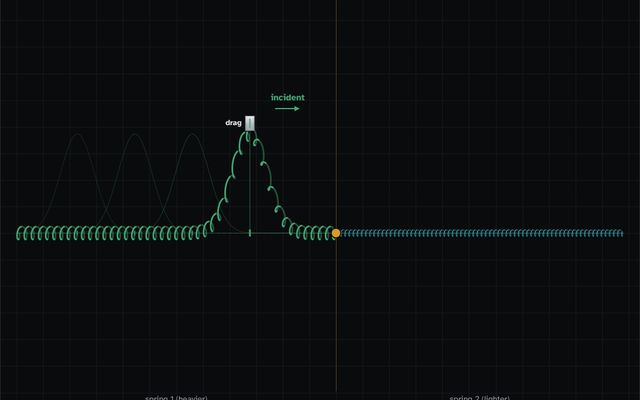
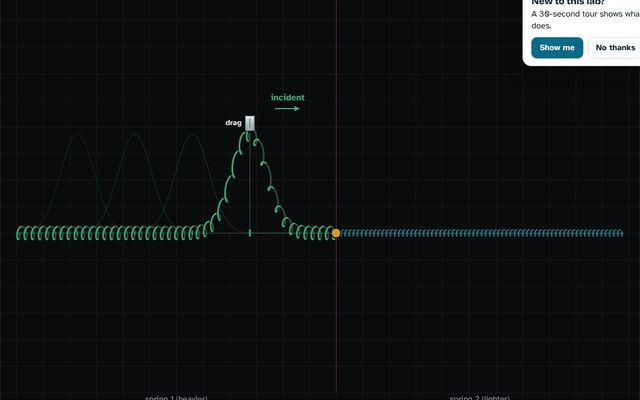
Pulse at a Boundary: Exercise screen and solving it in the lab
- Exercise screen: amplitude A, speed v1, and spring 2 as a mass-per-metre
  ratio (0.1-10) or a rigid wall, with an Example.
- The guided solution sets spring 2, asks for a prediction (upright, inverted,
  none), works out v2 = v1/r, R = (1-r)/(1+r) with the height and whether it is
  inverted, T = 2/(1+r), plays the pulse to check (and says whether the prediction
  was right), the energy split R^2 and r*T^2, and a summary.

Claude-Session: https://claude.ai/code/session_01EJxk2nM6avKJzUWi38t4jE

Changed region(s): [[0.8125, 0.0, 1.0, 0.18]]

diff --git a/pulse-at-a-boundary.html b/pulse-at-a-boundary.html
@@ -219,6 +219,15 @@ select.key{padding:0 34px 0 12px;font-weight:600;-webkit-appearance:none;appeara
 .stage-ui .verdict{font-weight:700}
 .stage-ui .scene{cursor:default}
 @media (max-width:860px),(max-height:560px){.stage-ui #gv{aspect-ratio:4/3}}
+.stage-ui .exhead{display:flex;align-items:center;justify-content:space-between;gap:12px;flex-wrap:wrap}.stage-ui .exhead h2{margin:0;font:800 1.4rem/1.2 var(--display)}
+.stage-ui .exgrid{display:grid;grid-template-columns:repeat(auto-fill,minmax(230px,1fr));gap:12px 18px}
+.stage-ui .exgrid label{display:flex;flex-direction:column;gap:4px;font-weight:700;font-size:14px}.stage-ui .exgrid label.ck{flex-direction:row;align-items:center;gap:8px;align-self:end;min-height:38px}
+.stage-ui .exgrid span{display:flex;align-items:center;gap:6px;font:600 14px var(--data);color:var(--muted)}
+.stage-ui .exgrid input[type=number]{width:7.5em;font:600 15px var(--data);padding:6px 8px;border:1.5px solid var(--line);border-radius:8px;background:var(--stage);color:var(--ink)}
+.stage-ui .exgrid input[aria-invalid="true"]{border-color:var(--bad,#C0392B)}.stage-ui .exgrid input:disabled{opacity:.5}
+.stage-ui .exq p{margin:0}.stage-ui .exq ol{margin:0;padding-left:1.4em;display:flex;flex-direction:column;gap:6px}
+.stage-ui #exSolve svg{flex:none}
+.tour-tip .t-picks{display:flex;gap:8px;margin-top:8px}.tour-tip .t-picks button[aria-pressed="true"]{background:var(--accent);border-color:var(--accent);color:var(--on-accent)}
 </style>
 <link rel="stylesheet" href="site.css">
 </head>
@@ -302,6 +311,22 @@ select.key{padding:0 34px 0 12px;font-weight:600;-webkit-appearance:none;appeara
     </aside>
   </section>
 
+  <section class="screen solo" data-screens="ex" hidden>
+    <div class="solo-in">
+      <div class="exhead"><h2>Exercise</h2><div class="transport"><button class="btn" type="button" id="exEg">Example</button><button class="btn primary" type="button" id="exSolve"><svg viewBox="0 0 24 24" width="18" height="18" aria-hidden="true"><path d="M8 5l11 7-11 7z" fill="currentColor"/></svg>Solve it in the lab</button></div></div>
+      <section class="group exf">
+        <div class="exgrid">
+          <label>Amplitude of the incoming pulse A <span><input id="exA" type="number" inputmode="decimal" min="0.1" step="any" value="6"> cm</span></label>
+          <label>Speed on spring 1, v₁ <span><input id="exV" type="number" inputmode="decimal" min="0.01" step="any" value="2"> m/s</span></label>
+          <label>Spring 2: mass per metre μ₂ ÷ μ₁ <span><input id="exM" type="number" inputmode="decimal" min="0.1" max="10" step="any" value="4"> ×</span></label>
+          <label class="ck"><input type="checkbox" id="exW"> Spring 2 is a rigid wall (fixed end)</label>
+        </div>
+        <p class="note" id="exMsg">The lab can do μ₂ ÷ μ₁ from 0.1 to 10. Same tension in both springs.</p>
+      </section>
+      <section class="group exq"><h2>Your exercise</h2><p id="exText"></p><ol id="exQs"></ol></section>
+    </div>
+  </section>
+
   <section class="screen solo" data-screens="predict" hidden>
     <div class="solo-in">
       <section class="group draw" aria-labelledby="h-draw">
@@ -317,7 +342,7 @@ select.key{padding:0 34px 0 12px;font-weight:600;-webkit-appearance:none;appeara
   </section>
 </main>
 
-<script>window.LAB = { screens: [ { id: 'intro', name: 'Intro' }, { id: 'lab', name: 'Lab' }, { id: 'predict', name: 'Predict' } ] };</script>
+<script>window.LAB = { screens: [ { id: 'intro', name: 'Intro' }, { id: 'lab', name: 'Lab' }, { id: 'predict', name: 'Predict' }, { id: 'ex', name: 'Exercise' } ] };</script>
 <script>
 (function () {
   "use strict";
@@ -804,8 +829,59 @@ select.key{padding:0 34px 0 12px;font-weight:600;-webkit-appearance:none;appeara
   if (document.fonts && document.fonts.ready) document.fonts.ready.then(function () { font = getComputedStyle(document.body).fontFamily; draw(); graph(); });
   syncSetup(); resize(); gResize(); refresh();
   requestAnimationFrame(frame);
+
+  /* ---------- Exercise: your numbers, solved in the lab (tour.js) ---------- */
+  var EX = { A: 6, v: 2, m: 4, wall: false }, exPred = null;
+  function exRead() {
+    var num = function (id, lo, hi) { var el = $(id), x = parseFloat(String(el.value).replace(",", ".")), ok = isFinite(x) && x >= lo && (hi == null || x <= hi); el.setAttribute("aria-invalid", ok ? "false" : "true"); return ok ? x : null; };
+    EX.wall = $("exW").checked; $("exM").disabled = EX.wall;
+    var A = num("exA", .01), v = num("exV", .001), m = EX.wall ? 1 : num("exM", .1, 10), ok = A != null && v != null && m != null;
+    $("exMsg").textContent = ok ? "Ready. Press “Solve it in the lab”." : (m == null ? "μ₂ ÷ μ₁ must be between 0.1 and 10." : "Type a positive amplitude and speed.");
+    if (!ok) return null; EX.A = A; EX.v = v; EX.m = m;
+    $("exText").textContent = "A pulse " + A + " cm high travels at " + v + " m/s along spring 1 towards " + (EX.wall ? "a rigid wall where the spring is fixed." : "a join with spring 2, whose mass per metre is " + m + " times that of spring 1 (same tension).");
+    $("exQs").innerHTML = (EX.wall ? ["Describe the reflected pulse: its height, and upright or inverted?", "How much energy is reflected?"] :
+      ["Find the speed of the pulse on spring 2.", "Find the height of the reflected pulse. Is it upright or inverted?", "Find the height of the transmitted pulse.", "What share of the energy is reflected and transmitted?"]).map(function (q) { return "<li>" + q + "</li>"; }).join("");
+    return EX;
+  }
+  ["exA", "exV", "exM", "exW"].forEach(function (id) { $(id).addEventListener("input", exRead); $(id).addEventListener("change", exRead); });
+  $("exEg").onclick = function () { $("exA").value = 6; $("exV").value = 3; $("exM").value = 9; $("exW").checked = false; exRead(); };
+  exRead();
+  document.addEventListener("click", function (e) { var b = e.target.closest && e.target.closest(".tour-tip [data-pick]"); if (!b) return; exPred = b.getAttribute("data-pick"); b.parentNode.querySelectorAll("[data-pick]").forEach(function (x) { x.setAttribute("aria-pressed", String(x === b)); }); });
+  function exSolve() {
+    var E = exRead(); if (!E || !window.Tour) return;
+    var A = E.A, v1 = E.v, m = E.m, wall = E.wall, r = Math.sqrt(m), R = wall ? -1 : (1 - r) / (1 + r), Tt = wall ? 0 : 2 / (1 + r), v2 = wall ? 0 : v1 / r;
+    var f2 = function (x) { return (Math.round(x * 100) / 100).toString().replace("-", "−"); }, pc = function (x) { return Math.round(x * 100) + "%"; };
+    var calc = function (t) { return '<div class="t-calc">' + t + "</div>"; }, inv = R < -1e-9 ? "inverted" : R > 1e-9 ? "upright" : "none";
+    var goLab = function () { var b = document.querySelector('.lg-nav [data-ph="lab"]'); if (b && document.documentElement.getAttribute("data-screen") !== "lab") b.click(); };
+    var setRange = function (el, x) { el.value = x; el.dispatchEvent(new Event("input", { bubbles: true })); };
+    exPred = null; var qn = 0, Q = function () { return (++qn) + " · "; };
+    var steps = [
+      { title: "Solve it in the lab", html: "<p>" + $("exText").textContent + "</p><p>We set up the same join, predict, calculate, then watch the pulse to check.</p>",
+        onShow: function () { goLab(); st.playing = false; st.t = T_START; st.predict = false; $("predict").checked = false; st.labels = true; $("labels").checked = true; refresh(); } },
+      wall ? { el: function () { return $("presets"); }, title: "Set the wall", html: "<p>Choose <b>Wall</b>: the end of spring 1 is fixed and cannot move.</p>",
+          wait: function () { return st.wall; }, doIt: function () { document.querySelector('.preset[data-m="wall"]').click(); }, done: "Spring 1 now ends at a rigid wall.", auto: 900 }
+        : { el: function () { return $("ratio").closest(".field"); }, title: "Set spring 2", html: "<p>Drag <b>Mass per metre</b> to <b>" + m + "×</b> (or drag the orange number).</p>",
+          wait: function () { return !st.wall && Math.abs(Math.log10(st.m) - Math.log10(m)) < 0.0055; }, doIt: function () { setRange($("ratio"), Math.round(Math.log10(m) * 100)); },
+          done: "Spring 2 is " + m + "× as heavy per metre" + (m > 1 ? ": a heavier spring." : m < 1 ? ": a lighter spring." : ": the same spring."), auto: 900 },
+      { title: "Predict first", html: "<p>When the pulse reaches the " + (wall ? "wall" : "join") + ", will the reflected pulse be upright or upside down?</p><div class=\"t-picks\"><button type=\"button\" data-pick=\"upright\">Upright</button><button type=\"button\" data-pick=\"inverted\">Inverted</button>" + (wall ? "" : "<button type=\"button\" data-pick=\"none\">No reflection</button>") + "</div>",
+        wait: function () { return !!exPred; }, done: function () { return "You predicted: " + exPred + ". Let’s work it out."; } }
+    ];
+    if (!wall) steps.push({ el: function () { return $("vNum").closest("dd"); }, title: Q() + "Speed on spring 2", html: calc("r = √(μ₂ ÷ μ₁) = √" + m + " = " + f2(r) + "\nv₂ = v₁ ÷ r = " + v1 + " ÷ " + f2(r) + "\nv₂ = " + f2(v2) + " m/s") + "<p>" + (m > 1 ? "A heavier spring carries the pulse more slowly." : m < 1 ? "A lighter spring carries the pulse faster." : "Same spring, same speed.") + " The lab shows v₂ = " + f2(1 / r) + " × v₁.</p>" });
+    steps.push({ el: function () { return $("fR").closest("dd"); }, title: Q() + "The reflected pulse", onShow: function () { var d = document.querySelector(".maths"); if (d) d.open = true; },
+      html: wall ? calc("At a fixed end R = −1\nheight = " + A + " cm, inverted") + "<p>The wall pulls the spring the other way, so the pulse comes back upside down and just as tall.</p>"
+        : calc("R = (1 − r) ÷ (1 + r) = (1 − " + f2(r) + ") ÷ (1 + " + f2(r) + ")\nR = " + (R >= 0 ? "+" : "") + f2(R) + "\nheight = |R| × A = " + f2(Math.abs(R)) + " × " + A + " = " + f2(Math.abs(R) * A) + " cm") + "<p>" + (inv === "inverted" ? "R is negative: the reflected pulse is <b>inverted</b>." : inv === "upright" ? "R is positive: the reflected pulse is <b>upright</b>." : "R = 0: there is <b>no reflected pulse</b>.") + "</p>" });
+    if (!wall) steps.push({ el: function () { return $("fT").closest("dd"); }, title: Q() + "The transmitted pulse", html: calc("T = 2 ÷ (1 + r) = 2 ÷ (1 + " + f2(r) + ")\nT = " + f2(Tt) + "\nheight = T × A = " + f2(Tt) + " × " + A + " = " + f2(Tt * A) + " cm") + "<p>The transmitted pulse is always upright" + (Tt > 1 ? ", and here it is taller than the incoming one (but slower, so it still carries less energy)." : ".") + "</p>" });
+    steps.push({ el: function () { return cv.closest(".scene"); }, title: "Watch and check", interactive: true, html: "<p>Watch the pulse reach the " + (wall ? "wall" : "join") + ". " + (wall ? "It comes back upside down, " + A + " cm tall." : "The reflected pulse comes back " + (inv === "none" ? "— there is none" : inv + ", " + f2(Math.abs(R) * A) + " cm tall") + ", and " + f2(Tt * A) + " cm goes on into spring 2.") + "</p>",
+      onShow: function () { st.t = T_START; st.playing = true; last = 0; refresh(); },
+      wait: function () { return st.t >= T_END - 0.05; }, done: function () { return exPred ? (exPred === (wall ? "inverted" : inv) ? "Your prediction was right." : "You predicted " + exPred + "; the pulse came back " + (wall ? "inverted" : inv) + ".") : "Seen."; } });
+    steps.push({ el: function () { return document.querySelector(".energy"); }, title: Q() + "Where the energy goes", html: wall ? calc("reflected 100%  ·  transmitted 0%") + "<p>Nothing passes into the wall.</p>" : calc("reflected   = R² = " + (R < 0 ? "(" + f2(R) + ")" : f2(R)) + "² = " + pc(R * R) + "\ntransmitted = r · T² = " + f2(r) + " × " + f2(Tt) + "² = " + pc(r * Tt * Tt) + "\ntotal = 100%") + "<p>The bar shows the same split.</p>" });
+    steps.push({ title: "Your answers", html: calc(wall ? "reflected: " + A + " cm, inverted\nenergy: 100% reflected" : "v₂ = " + f2(v2) + " m/s\nreflected: " + f2(Math.abs(R) * A) + " cm, " + inv + "\ntransmitted: " + f2(Tt * A) + " cm, upright\nenergy: " + pc(R * R) + " reflected, " + pc(r * Tt * Tt) + " transmitted") + "<p>Compare them with your own working.</p>" });
+    setTimeout(function () { Tour.start(steps, { label: "Exercise", skipText: "Stop", doneText: "Finish", lazy: true }); }, 80);
+  }
+  $("exSolve").onclick = exSolve;
 })();
 </script>
+<script src="tour.js" defer></script>
 <script src="lab-guide.js" defer></script>
 </body>
 </html>
